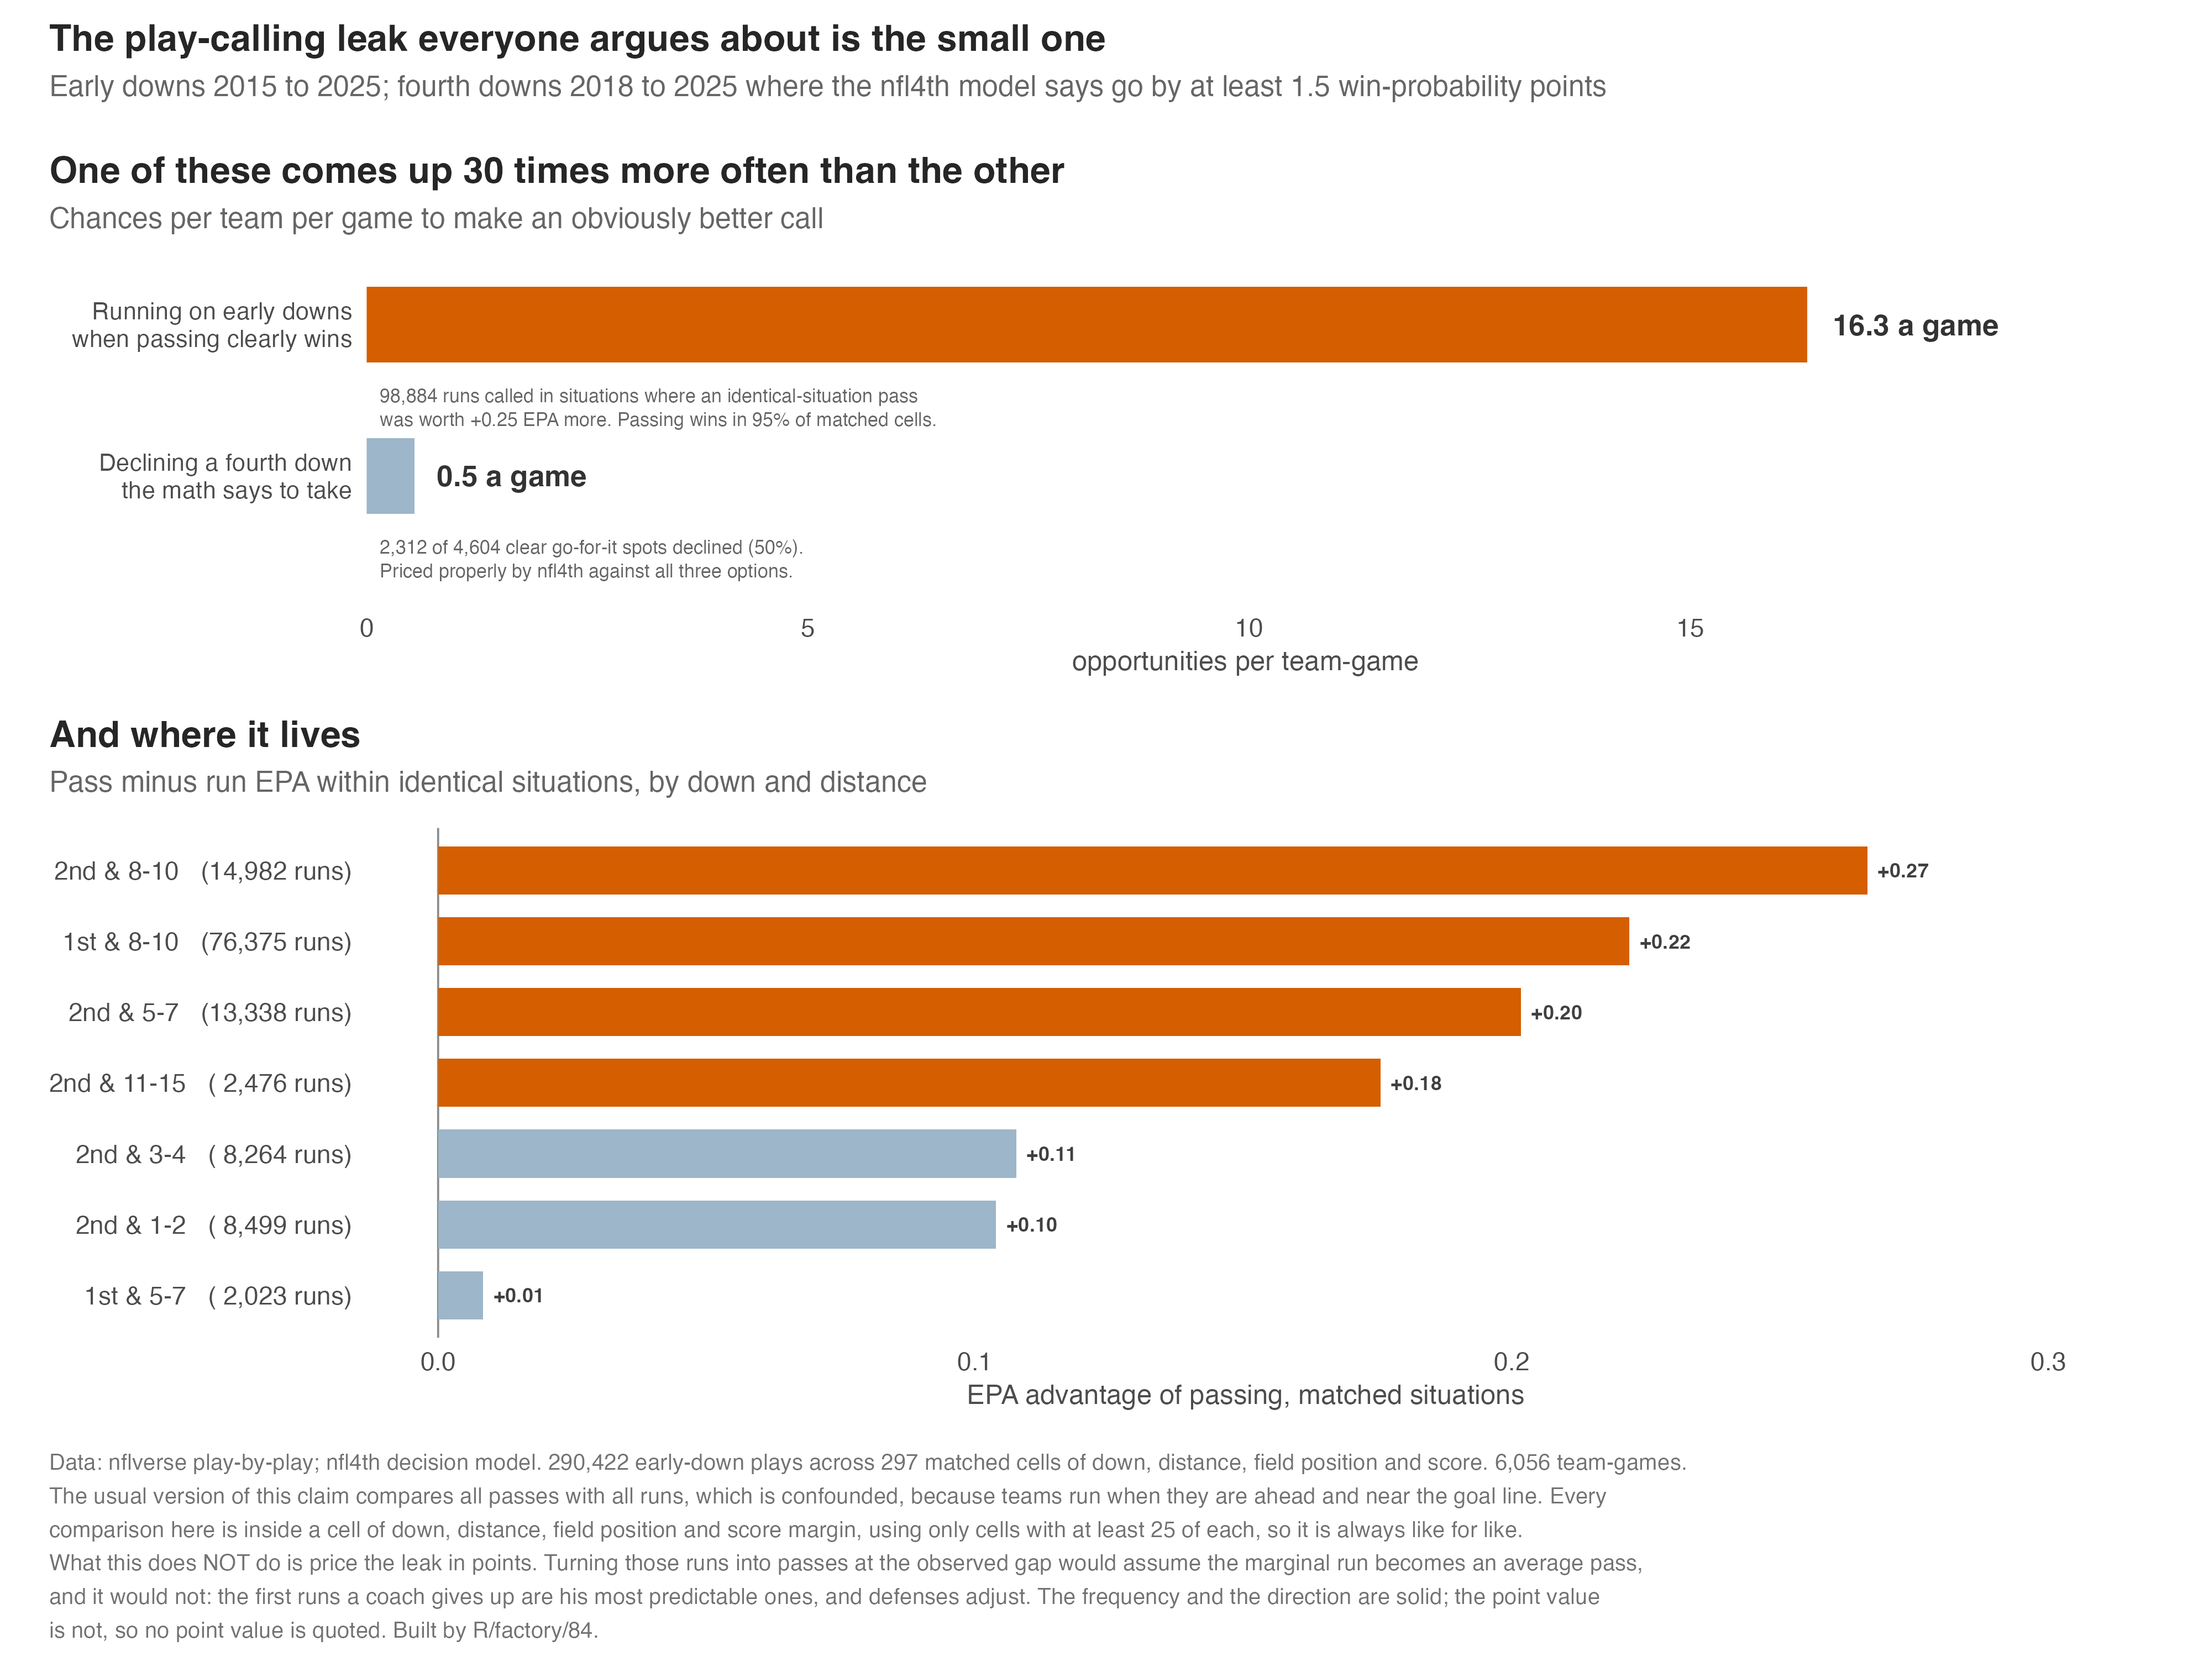
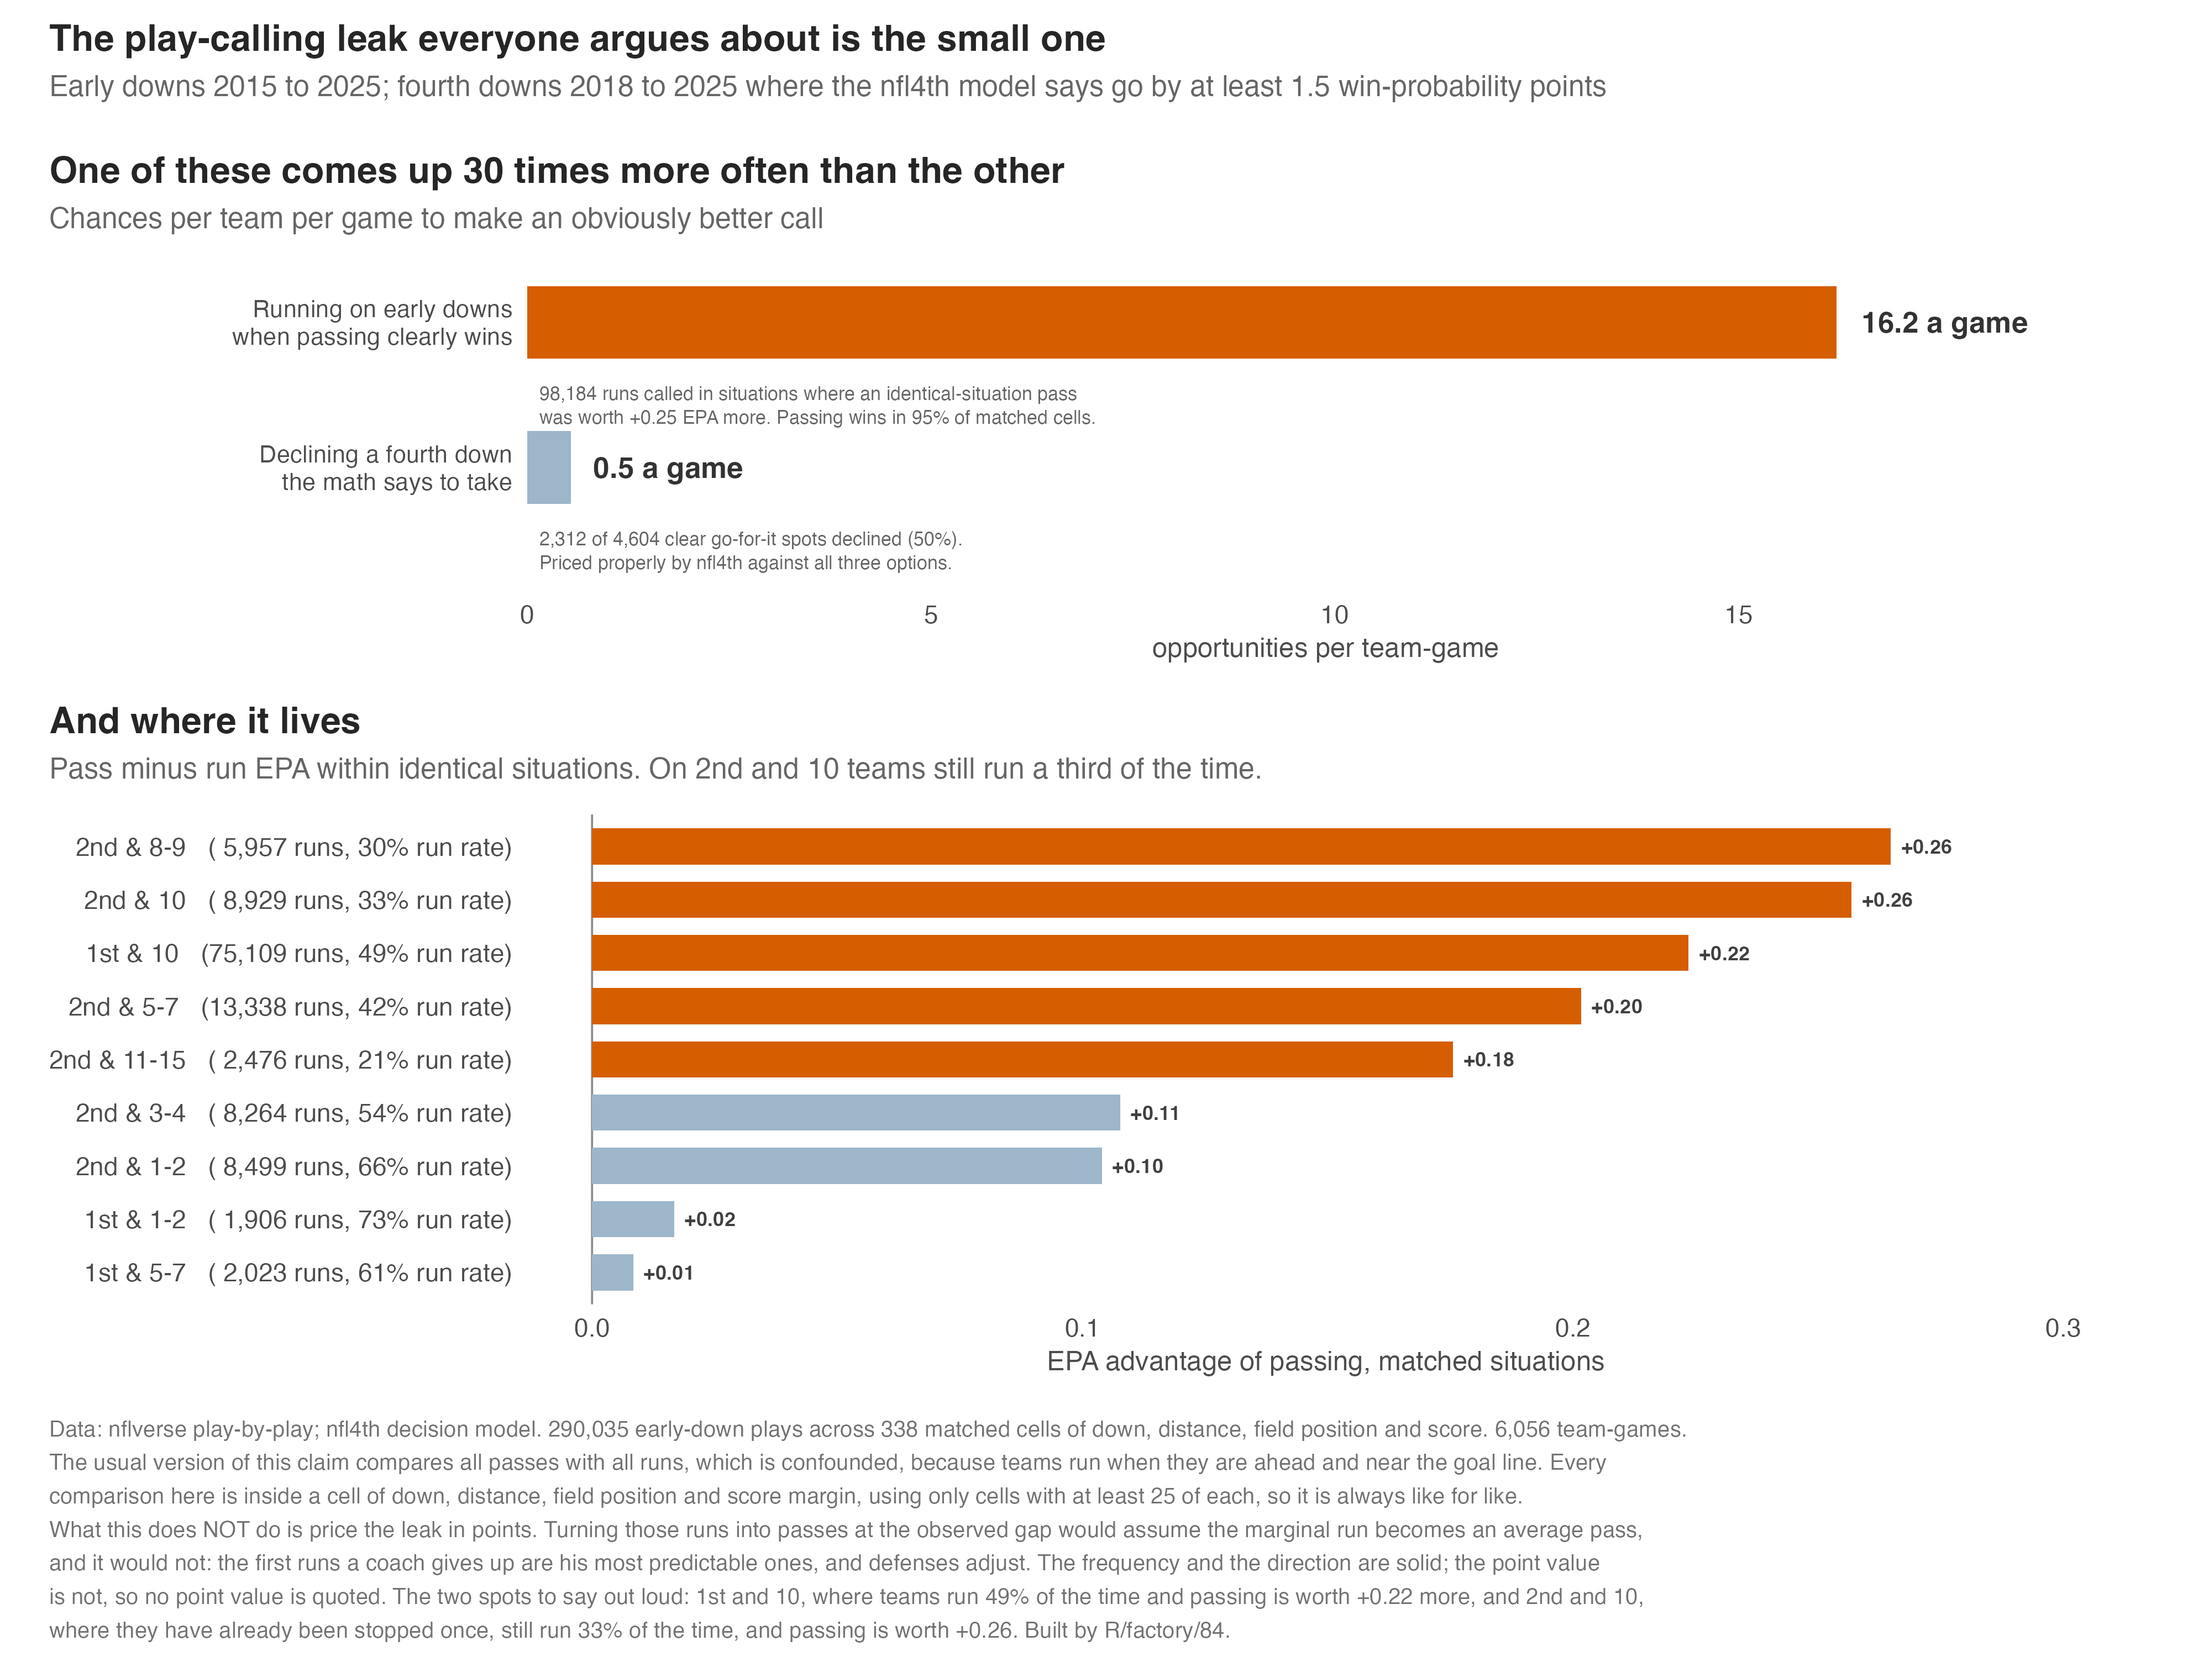
break out 1st and 10 and 2nd and 10 in the leaks chart, with run rates on the labels

diff --git a/docs/outline.html b/docs/outline.html
@@ -74,7 +74,7 @@ footer{border-top:1px solid var(--line);margin-top:60px;padding-top:18px;font-si
 <figure><img src="figures/factory/career_arc.png" alt="Cumulative wins above market expectation across coaching careers"><figcaption>The career arc: wins banked above what the market expected, game by game.</figcaption></figure></section>
 <h2>Running on early downs</h2>
 <section><h3>Where can play-calling obviously be improved?</h3><p class="note">Michael asked where the obvious improvements are. The answer is not that the early-down run is a mistake, which everyone has said. It is the <b>scale gap</b>. Fourth down is the leak the internet argues about and it comes up about <b>half a time per team per game</b>. Running on early downs in spots where passing clearly wins comes up <b>16 times a game</b>. Thirty times the volume, a fraction of the attention.</p>
-<figure><img src="figures/factory/leaks.png" alt="Opportunities per team-game for each correctable play-calling leak, and where the early-down leak concentrates"><figcaption>Every pass-versus-run comparison here is made inside a matched cell of down, distance, field position and score, so it is like for like. Passing wins in 95% of those cells. Biggest on 2nd and 8-10 at +0.27 EPA. No point value is quoted, because the marginal run does not become an average pass.</figcaption></figure></section>
+<figure><img src="figures/factory/leaks.png" alt="Opportunities per team-game for each correctable play-calling leak, and where the early-down leak concentrates"><figcaption>Every pass-versus-run comparison here is made inside a matched cell of down, distance, field position and score, so it is like for like. Passing wins in 95% of those cells. The two spots to say out loud: <b>1st and 10</b>, where teams run 49% of the time and an identical-situation pass is worth +0.22 EPA more, and <b>2nd and 10</b>, where they have already been stopped once, still run 33% of the time, and passing is worth +0.26. No point value is quoted, because the marginal run does not become an average pass.</figcaption></figure></section>
 <section><h3>Teams are still doing this too much</h3><figure><img src="figures/factory/outline_early_downs.png" alt="Early-down run rate by season against the EPA advantage of passing"><figcaption>Run rate 44.8% in 2015, 45.5% in 2025. Passing has been worth more every single season.</figcaption></figure></section>
 <section><h3>Which play-callers are best and worst at it?</h3><figure><img src="figures/factory/early_down_callers.png" alt="Early-down run rate above expected by play-caller, and the offense that goes with it"><figcaption>Measured against what the game state called for, so a caller who spent three years with a lead is not punished for it. Andy Reid is 8.4 points below expected, Arthur Smith 6.2 above.</figcaption></figure></section>
 <h2>Adaptability</h2>
